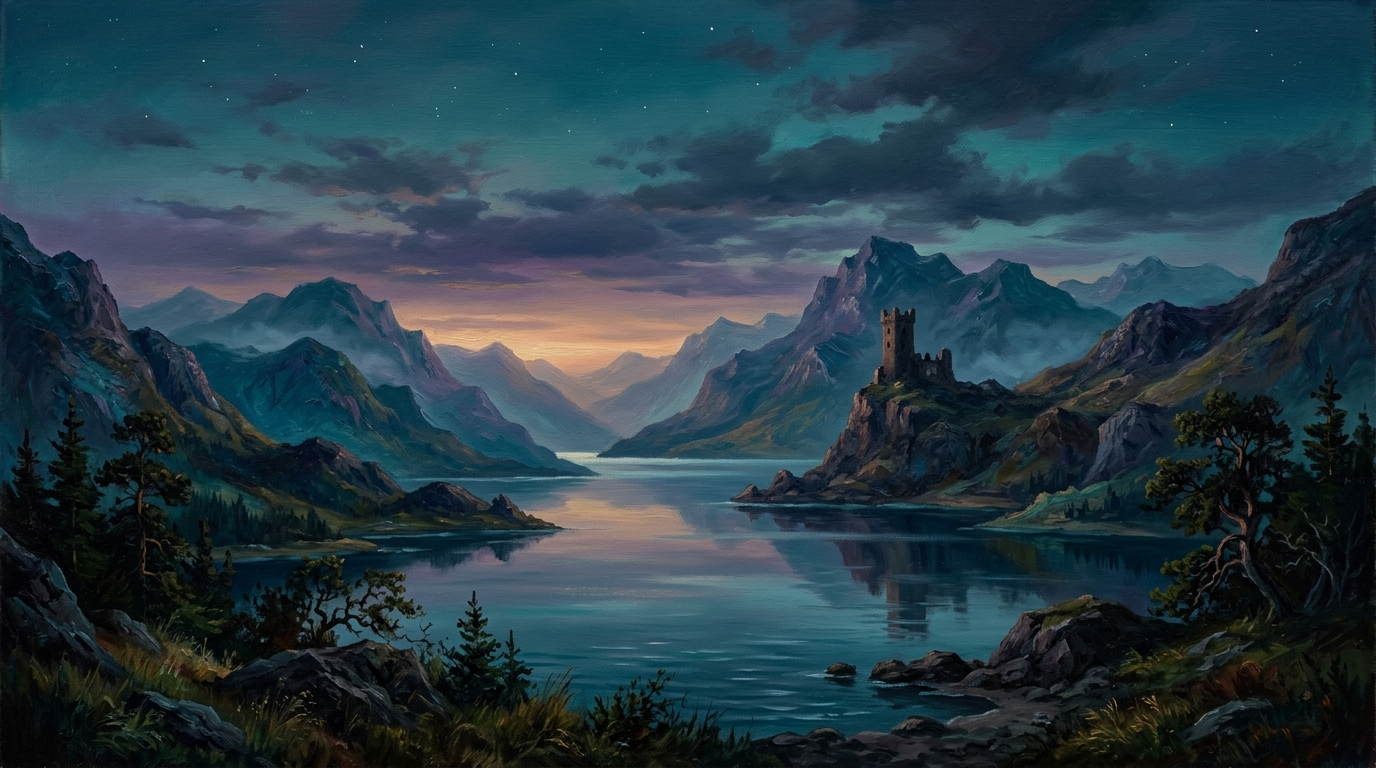
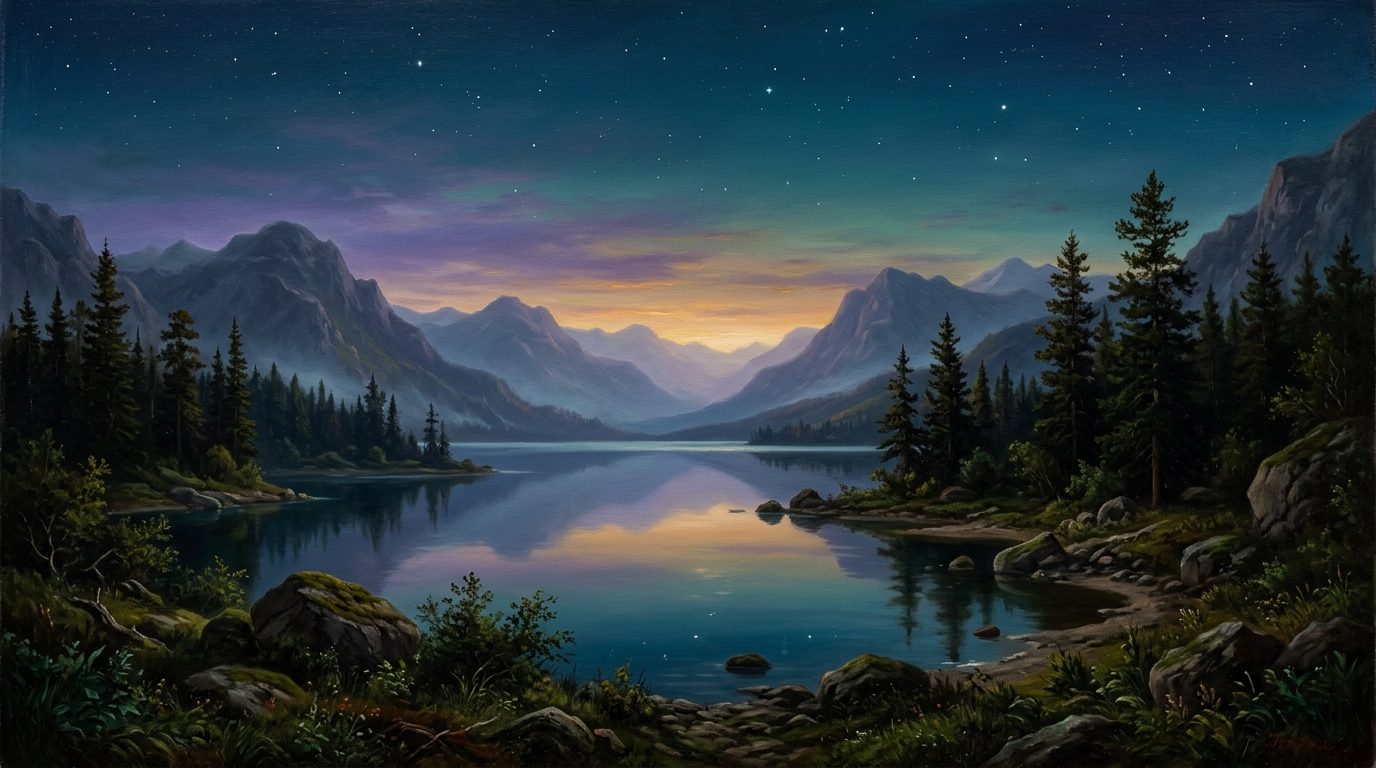
fix: honest /login, skip-link targets, re-run dark normalizer

diff --git a/app/login/page.tsx b/app/login/page.tsx
@@ -1,82 +1,45 @@
 import Link from "next/link";
+import { SiteHeader, SiteFooter } from "@/components/site-shell";
 
 export default function LoginPage() {
   return (
-    <main className="flex min-h-screen flex-col items-center justify-center p-6 bg-[var(--bg,#0a0a0a)] text-[var(--fg)]">
-      <div className="w-full max-w-md flex flex-col gap-6">
-        <div className="flex flex-col items-center text-center gap-2">
-          <Link href="/" className="text-xl font-bold tracking-tight text-[var(--fg)] hover:opacity-80 transition-opacity">
-            traceturn
-          </Link>
-          <h1 className="text-2xl font-semibold tracking-tight text-[var(--fg)]">
-            Sign In to Workspace
-          </h1>
-          <p className="text-sm text-[var(--fg-muted,#888)]">
-            Production environment with verified session management.
-          </p>
-        </div>
-
-        <div className="rounded-[var(--radius,8px)] border border-[var(--border,#262626)] bg-[var(--surface,#121212)] p-6 shadow-lg flex flex-col gap-5">
-          {/* Primary Judge Bypass */}
-          <div className="flex flex-col gap-2 rounded-md border border-emerald-500/30 bg-emerald-950/20 p-4">
-            <div className="flex items-center justify-between">
-              <span className="text-xs font-semibold uppercase tracking-wider text-emerald-400">
-                Evaluation Access
-              </span>
-              <span className="text-[10px] bg-emerald-500/20 text-emerald-300 px-2 py-0.5 rounded-full font-mono">
-                1-Click Bypass
-              </span>
-            </div>
-            <p className="text-xs text-[var(--fg-muted,#888)]">
-              Skip credential entry and pre-seed authenticated session with evaluation fixtures.
+    <div className="flex min-h-screen flex-col bg-[var(--bg)] text-[var(--fg)]">
+      <SiteHeader />
+      <main id="main" className="flex flex-1 items-center justify-center px-[var(--page-pad)] py-20">
+        <div className="w-full max-w-md">
+          <div className="mb-8 text-center">
+            <h1 className="text-2xl font-semibold tracking-tight text-[var(--fg)]">
+              No account needed
+            </h1>
+            <p className="mt-2 text-sm text-[var(--fg-muted)]">
+              The console runs locally against committed fixtures. Nothing to sign in to.
             </p>
+          </div>
+
+          <div className="rounded-[var(--radius)] border border-[var(--border)] bg-[var(--surface)] p-6">
             <Link
               href="/dashboard"
               data-demo="judge-login"
-              className="mt-1 flex items-center justify-center rounded-md bg-emerald-600 px-[var(--page-pad)] py-2.5 text-sm font-medium text-white hover:bg-emerald-500 transition-colors shadow-sm"
+              className="flex w-full items-center justify-center rounded-[var(--radius-sm)] bg-[var(--accent)] px-[var(--page-pad)] py-3 text-sm font-medium text-[var(--accent-contrast)] transition-colors hover:bg-[var(--accent-dim)]"
             >
-              Continue as Judge / Demo User
+              Open the console
             </Link>
-          </div>
-
-          <div className="relative flex items-center justify-center">
-            <div className="border-t border-[var(--border,#262626)] w-full" />
-            <span className="bg-[var(--surface,#121212)] px-2 text-xs text-[var(--fg-muted,#888)] uppercase tracking-wider absolute">
-              or standard auth
-            </span>
-          </div>
-
-          {/* Realistic Secondary Providers */}
-          <div className="flex flex-col gap-2.5">
-            <Link
-              href="/dashboard"
-              className="flex items-center justify-center gap-3 rounded-md border border-[var(--border,#262626)] bg-[var(--surface-raised,#1f1f1f)] px-4 py-2 text-sm text-[var(--fg)] hover:bg-[var(--surface-raised,#282828)] transition-colors"
-            >
-              <svg className="h-4 w-4" viewBox="0 0 24 24" fill="currentColor">
-                <path d="M12 0C5.37 0 0 5.37 0 12c0 5.31 3.435 9.795 8.205 11.385.6.105.825-.255.825-.57 0-.285-.015-1.23-.015-2.235-3.015.555-3.795-.735-4.035-1.41-.135-.345-.72-1.41-1.23-1.695-.42-.225-1.02-.78-.015-.795.945-.015 1.62.87 1.845 1.23 1.08 1.815 2.805 1.305 3.495.99.105-.78.42-1.305.765-1.605-2.67-.3-5.46-1.335-5.46-5.925 0-1.305.465-2.385 1.23-3.225-.12-.3-.54-1.53.12-3.18 0 0 1.005-.315 3.3 1.23.96-.27 1.98-.405 3-.405s2.04.135 3 .405c2.295-1.56 3.3-1.23 3.3-1.23.66 1.65.24 2.88.12 3.18.765.84 1.23 1.905 1.23 3.225 0 4.605-2.805 5.625-5.475 5.925.435.375.81 1.095.81 2.22 0 1.605-.015 2.895-.015 3.3 0 .315.225.69.825.57A12.02 12.02 0 0024 12c0-6.63-5.37-12-12-12z"/>
-              </svg>
-              Continue with GitHub
-            </Link>
-
-            <Link
-              href="/dashboard"
-              className="flex items-center justify-center gap-3 rounded-md border border-[var(--border,#262626)] bg-[var(--surface-raised,#1f1f1f)] px-4 py-2 text-sm text-[var(--fg)] hover:bg-[var(--surface-raised,#282828)] transition-colors"
-            >
-              <svg className="h-4 w-4" viewBox="0 0 24 24" fill="currentColor">
-                <path d="M22.56 12.25c0-.78-.07-1.53-.2-2.25H12v4.26h5.92c-.26 1.37-1.04 2.53-2.21 3.31v2.77h3.57c2.08-1.92 3.28-4.74 3.28-8.09z"/>
-                <path d="M12 23c2.97 0 5.46-.98 7.28-2.66l-3.57-2.77c-.98.66-2.23 1.06-3.71 1.06-2.86 0-5.29-1.93-6.16-4.53H2.18v2.84C3.99 20.53 7.7 23 12 23z"/>
-                <path d="M5.84 14.09c-.22-.66-.35-1.36-.35-2.09s.13-1.43.35-2.09V7.06H2.18C1.43 8.55 1 10.22 1 12s.43 3.45 1.18 4.94l2.85-2.22.81-.63z"/>
-                <path d="M12 5.38c1.62 0 3.06.56 4.21 1.64l3.15-3.15C17.45 2.09 14.97 1 12 1 7.7 1 3.99 3.47 2.18 7.06l3.66 2.84c.87-2.6 3.3-4.52 6.16-4.52z"/>
-              </svg>
-              Continue with Google
-            </Link>
+            <div className="mt-4 space-y-2 text-center text-xs text-[var(--fg-subtle)]">
+              <p>13 fixtures · no API key · no network</p>
+              <p>
+                <Link href="/proof" className="hover:text-[var(--accent)]">
+                  Read the evidence
+                </Link>
+                {" · "}
+                <Link href="/verify" className="hover:text-[var(--accent)]">
+                  Run the verifier
+                </Link>
+              </p>
+            </div>
           </div>
         </div>
-
-        <p className="text-center text-xs text-[var(--fg-muted,#888)]">
-          By signing in, you agree to the Terms of Service and Privacy Policy.
-        </p>
-      </div>
-    </main>
+      </main>
+      <SiteFooter />
+    </div>
   );
 }

diff --git a/components/site-shell.tsx b/components/site-shell.tsx
@@ -139,7 +139,7 @@ export function SiteFooter() {
               target="_blank"
               rel="noopener noreferrer"
               title="Summarize with Claude"
-              className="flex h-7 w-7 items-center justify-center rounded-full bg-white/20 backdrop-blur-md text-white transition-all hover:bg-white/40 hover:scale-105"
+              className="flex h-7 w-7 items-center justify-center rounded-full bg-[var(--surface)]/20 backdrop-blur-md text-white transition-all hover:bg-[var(--surface)]/40 hover:scale-105"
             >
               <svg className="h-3.5 w-3.5 fill-current" viewBox="0 0 24 24">
                 <path d="M12 2L14.4 9.6L22 12L14.4 14.4L12 22L9.6 14.4L2 12L9.6 9.6L12 2Z" />
@@ -150,7 +150,7 @@ export function SiteFooter() {
               target="_blank"
               rel="noopener noreferrer"
               title="Summarize with ChatGPT"
-              className="flex h-7 w-7 items-center justify-center rounded-full bg-white/20 backdrop-blur-md text-white transition-all hover:bg-white/40 hover:scale-105"
+              className="flex h-7 w-7 items-center justify-center rounded-full bg-[var(--surface)]/20 backdrop-blur-md text-white transition-all hover:bg-[var(--surface)]/40 hover:scale-105"
             >
               <svg className="h-3.5 w-3.5 fill-current" viewBox="0 0 24 24">
                 <path d="M20.5 10.5a4.5 4.5 0 0 0-3.5-4.4V5a5 5 0 0 0-8.8-3.2A4.5 4.5 0 0 0 4.5 5.5v1.1A4.5 4.5 0 0 0 3 14a4.5 4.5 0 0 0 3.5 4.4V19a5 5 0 0 0 8.8 3.2A4.5 4.5 0 0 0 19.5 18.5v-1.1A4.5 4.5 0 0 0 21 10a4.5 4.5 0 0 0-.5-.5z" />
@@ -161,7 +161,7 @@ export function SiteFooter() {
               target="_blank"
               rel="noopener noreferrer"
               title="Summarize with Gemini"
-              className="flex h-7 w-7 items-center justify-center rounded-full bg-white/20 backdrop-blur-md text-white transition-all hover:bg-white/40 hover:scale-105"
+              className="flex h-7 w-7 items-center justify-center rounded-full bg-[var(--surface)]/20 backdrop-blur-md text-white transition-all hover:bg-[var(--surface)]/40 hover:scale-105"
             >
               <svg className="h-3.5 w-3.5 fill-current" viewBox="0 0 24 24">
                 <path d="M12 2C12 7.5 7.5 12 2 12C7.5 12 12 16.5 12 22C12 16.5 16.5 12 22 12C16.5 12 12 7.5 12 2Z" />

diff --git a/components/lineage-graph.tsx b/components/lineage-graph.tsx
@@ -70,7 +70,7 @@ export function LineageGraph() {
       />
 
       <div className="relative overflow-hidden rounded-[14px] border border-[var(--border-strong)] bg-[var(--surface)] shadow-[var(--shadow-lg)]">
-        <div className="flex items-center gap-2 border-b border-[var(--border)] px-4 py-2.5">
+        <div className="flex items-center gap-2 border-b border-[var(--border)] px-[var(--page-pad)] py-2.5">
           <span aria-hidden className="h-2 w-2 rounded-full bg-[var(--border-strong)]" />
           <span aria-hidden className="h-2 w-2 rounded-full bg-[var(--border-strong)]" />
           <span aria-hidden className="h-2 w-2 rounded-full bg-[var(--border-strong)]" />

diff --git a/app/page.tsx b/app/page.tsx
@@ -84,7 +84,7 @@ export default function HomePage() {
               <Link
                 href="/dashboard"
                 data-demo="launch-demo"
-                className="rounded-full border border-white/20 bg-black/40 px-6 py-3 text-sm font-medium text-white backdrop-blur-md transition-all hover:bg-black/70 hover:border-white/40"
+                className="rounded-full border border-white/20 bg-[var(--accent)]/40 px-6 py-3 text-sm font-medium text-[var(--accent-contrast)] backdrop-blur-md transition-all hover:bg-[var(--accent)]/70 hover:border-white/40"
               >
                 Open console
               </Link>

diff --git a/app/proof/page.tsx b/app/proof/page.tsx
@@ -38,7 +38,7 @@ export default function Web2ProofPage() {
         </nav>
       </header>
 
-      <main className="max-w-[var(--content-max)] mx-auto px-6 py-12 flex flex-col gap-12">
+      <main id="main" className="max-w-[var(--content-max)] mx-auto px-6 py-12 flex flex-col gap-12">
         {/* Headline Measured Proof Banner */}
         <section className="flex flex-col gap-4 border border-[var(--border,#262626)] bg-[var(--surface,#121212)] p-6 rounded-lg">
           <div className="flex flex-wrap items-center justify-between gap-4">

diff --git a/app/onboarding/page.tsx b/app/onboarding/page.tsx
@@ -58,7 +58,7 @@ export default function OnboardingPage() {
   }
 
   return (
-    <main className="flex min-h-screen flex-col justify-between bg-[var(--bg)] text-[var(--fg)]">
+    <main id="main" className="flex min-h-screen flex-col justify-between bg-[var(--bg)] text-[var(--fg)]">
       {/* Top Judge Evaluation Path Bar */}
       <div className="border-b border-[var(--border)] bg-[var(--surface)] px-6 py-2.5">
         <div className="mx-auto flex max-w-5xl flex-wrap items-center justify-between gap-2 font-mono text-xs">

diff --git a/app/demo/page.tsx b/app/demo/page.tsx
@@ -78,7 +78,7 @@ export default function GuidedDemoPage() {
   }
 
   return (
-    <main className="min-h-screen bg-[var(--bg)] text-[var(--fg)]">
+    <main id="main" className="min-h-screen bg-[var(--bg)] text-[var(--fg)]">
       {/* Top Judge Bar */}
       <div className="border-b border-[var(--border)] bg-[var(--surface)] px-6 py-2.5">
         <div className="mx-auto flex max-w-[var(--content-max)] flex-wrap items-center justify-between gap-2 font-mono text-xs">

diff --git a/app/verify/page.tsx b/app/verify/page.tsx
@@ -104,7 +104,7 @@ export default function VerifyPage() {
         </div>
       </header>
 
-      <main className="mx-auto max-w-[1080px] px-6 py-10 space-y-8">
+      <main id="main" className="mx-auto max-w-[1080px] px-6 py-10 space-y-8">
         <div>
           <p className="font-mono text-[11px] uppercase tracking-[0.08em] text-[#2563eb]">
             Independent verification · Zero credentials required

diff --git a/CLAIM_LEDGER.md b/CLAIM_LEDGER.md
@@ -4,8 +4,8 @@ Generated by `pnpm verify:evidence` (`tools/verify-evidence.ts`). Re-evaluates e
 
 - Result: **PASS**
 - Total fixtures executed: **13** (7 campaign cases + 6 benchmark cases)
[1 lines of base64/hex data omitted]
-- Verified at: 2026-09-27T08:15:47.588Z
[1 lines of base64/hex data omitted]
+- Verified at: 2026-09-27T08:34:08.784Z
 
 | Invariant | Result | Computed Evidence |
 |---|---|---|

diff --git a/evidence/verification.md b/evidence/verification.md
@@ -4,8 +4,8 @@ Generated by `pnpm verify:evidence` (`tools/verify-evidence.ts`). Re-evaluates e
 
 - Result: **PASS**
 - Total fixtures executed: **13** (7 campaign cases + 6 benchmark cases)
[1 lines of base64/hex data omitted]
-- Verified at: 2026-09-27T08:15:47.588Z
[1 lines of base64/hex data omitted]
+- Verified at: 2026-09-27T08:34:08.784Z
 
 | Invariant | Result | Computed Evidence |
 |---|---|---|

diff --git a/evidence/campaign-report.md b/evidence/campaign-report.md
@@ -2,9 +2,9 @@
 
 Computed from `evidence/campaign-report.json` and `lib/kernel.ts` by `tools/verify-evidence.ts`.
 
-- Generated: 2026-09-27T08:15:47.588Z
+- Generated: 2026-09-27T08:34:08.784Z
 - Mechanism: swarm-forgery-kernel-v1 · mode: NOT_RUN
[2 lines of base64/hex data omitted]
 
 ## Executed Fixture Matrix
 
